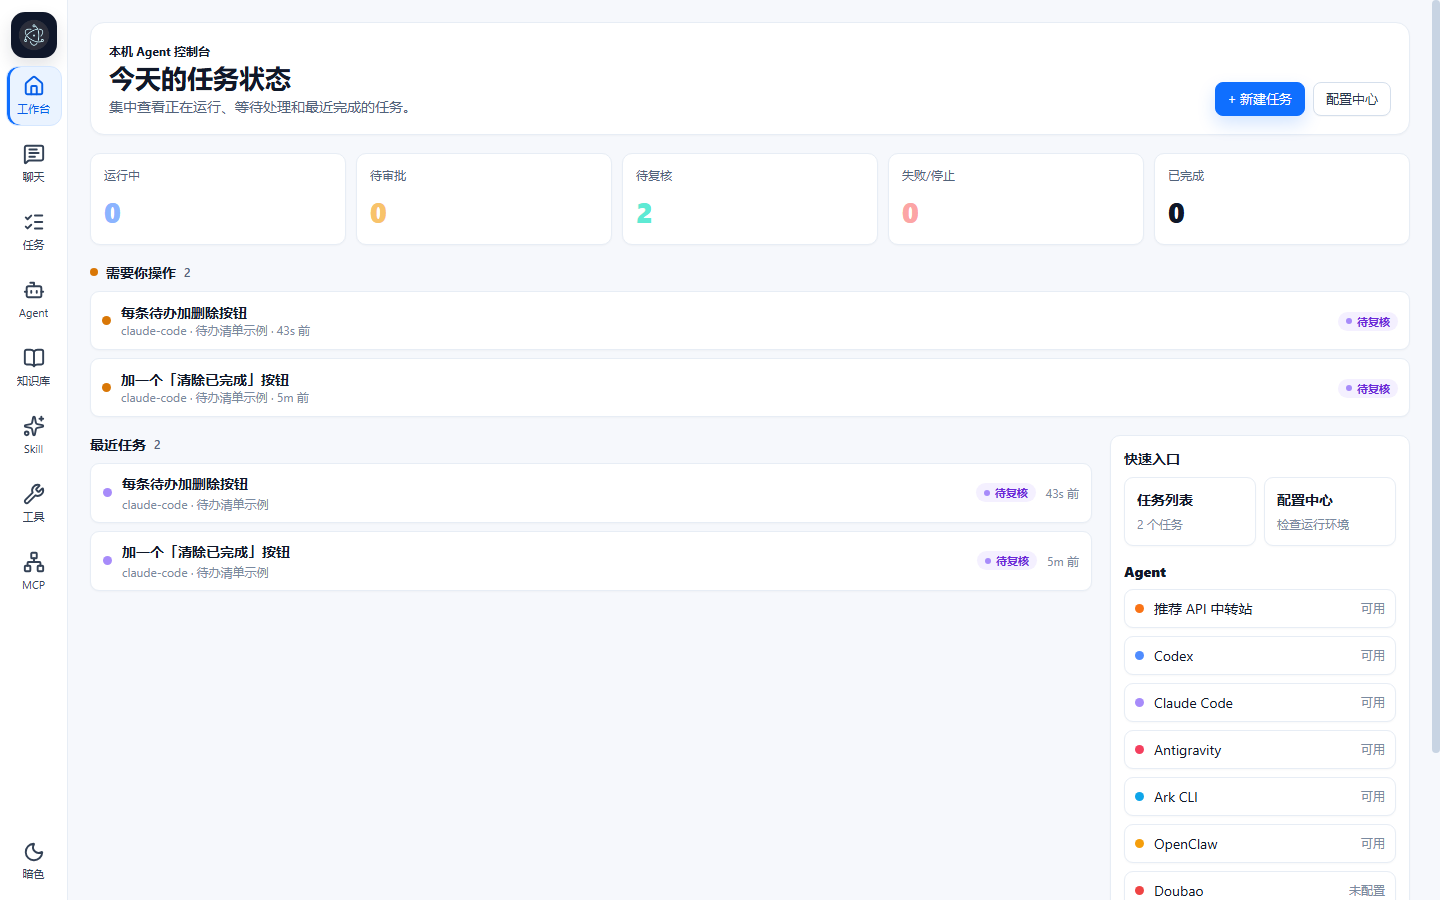
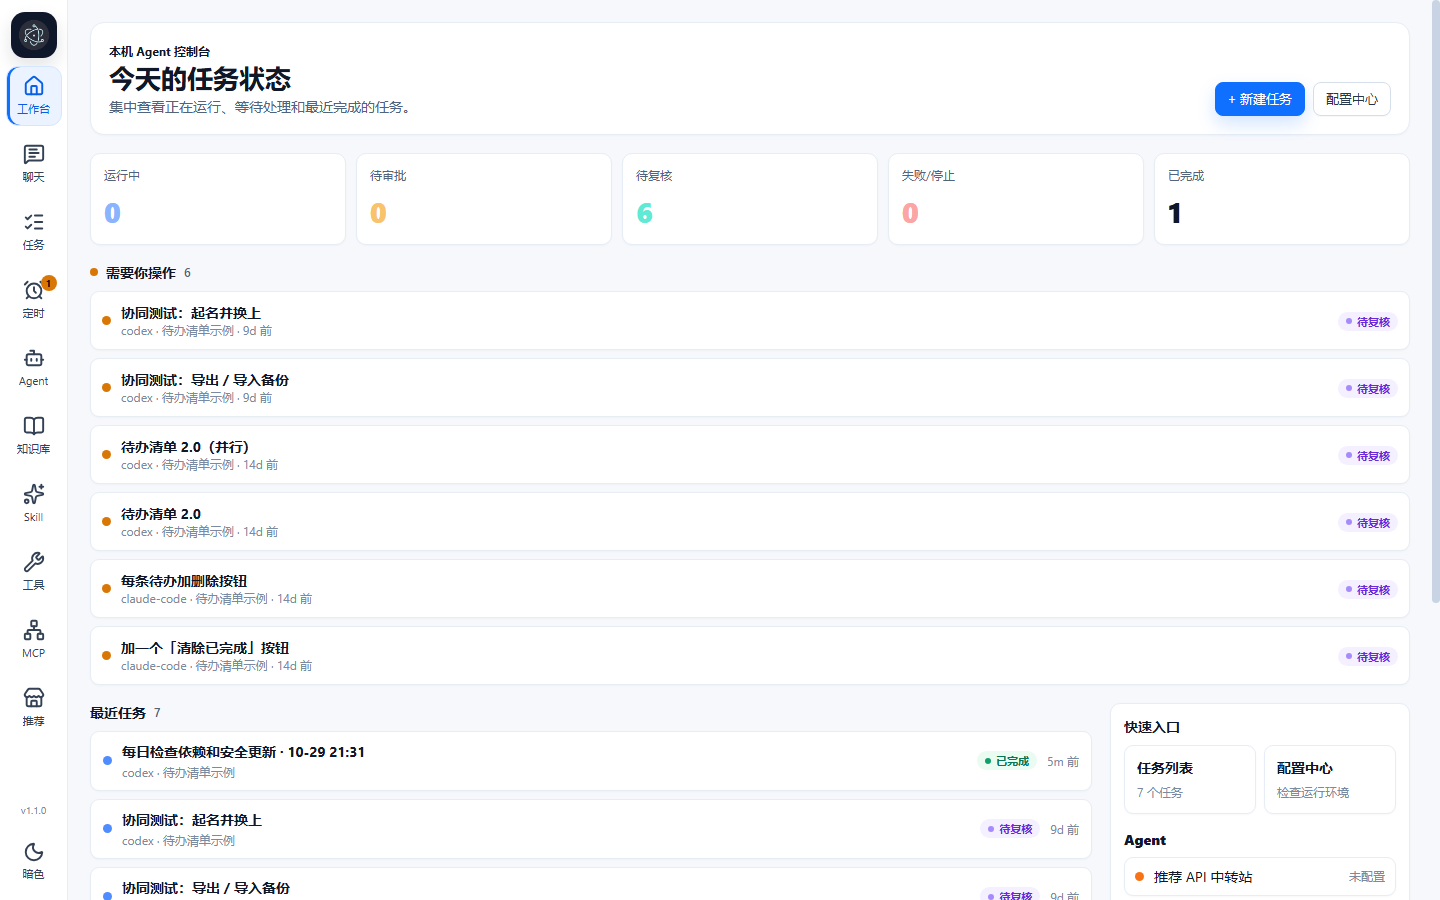
README: macOS / Linux support, new agents, multiple accounts, scheduled tasks, flow timeline and MCP management; new screenshots

diff --git a/README.en.md b/README.en.md
@@ -2,9 +2,9 @@
 
 English | [中文](README.md)
 
-Xgent Hub is a local control console for the coding agents installed on your computer: Codex, Claude Code, Antigravity, OpenClaw, Ark CLI, Ollama and any OpenAI-compatible API. You drive all of them from one web workspace (desktop app, browser or phone). The core is a task board with an approval queue and diff review, not a model dropdown with a chat box.
+Xgent Hub is a local control console for the coding agents installed on your computer: Codex, Claude Code, Antigravity, WorkBuddy (CodeBuddy), DeepSeek Harness, OpenClaw, Ark CLI, Ollama and any OpenAI-compatible API. You drive all of them from one web workspace (desktop app, browser or phone). The core is a task board with an approval queue and diff review, not a model dropdown with a chat box.
 
-> The user interface is currently in Simplified Chinese. Windows 10/11 is the only supported platform: the service scripts, installer and CLI launching are Windows-specific.
+> The user interface is currently in Simplified Chinese. It runs on Windows 10/11, macOS and Linux, and on a NAS (fnOS, Synology, ...) via Docker. The desktop app (Electron) and the installer are Windows-only for now; on macOS / Linux use the browser.
 
 ## Screenshots
 
@@ -20,9 +20,13 @@ Xgent Hub is a local control console for the coding agents installed on your com
 
 ![Diff review](.github/screenshots/diff.png)
 
-**Parallel agents**: one request split into subtasks handed to different agents (Codex, Claude Code, Antigravity…) that work at the same time; steps that depend on others wait for them, and everything comes back to the coordinator for a summary. Animated dashed edges are runs in progress.
+**Parallel agents**: one request split into subtasks handed to different agents (Codex, Claude Code, Antigravity…) that work at the same time; steps that depend on others wait for them, and everything comes back to the coordinator for a summary. The flow tab's "Structure" view draws it as a node graph you can drag and zoom; animated dashed edges are runs in progress.
 
 ![Parallel multi-agent flow](.github/screenshots/flow.png)
+
+**Timeline**: the other view of the flow tab, one column per subtask, showing top to bottom what each agent did and when: received the task, ran commands, changed files, waited for approval, finished. Tick "Show tokens" to see how many tokens each step used.
+
+![Flow timeline](.github/screenshots/flow-timeline.png)
 
 **Summary**: every subtask's reply is labelled with its subtask and agent; at the end the coordinator checks the whole workspace and hands you the result.
 
@@ -32,16 +36,25 @@ Xgent Hub is a local control console for the coding agents installed on your com
 
 ![Chat](.github/screenshots/chat.png)
 
+**Scheduled tasks**: agents do work on a schedule, e.g. check dependencies every weekday morning, write a weekly report on Fridays, or come back to a task every few hours to follow up. Unread results show as a number on the scheduled-tasks item in the left nav.
+
+![Scheduled tasks](.github/screenshots/automations.png)
+
+**MCP servers**: "Test connection" performs a real MCP handshake and lists the tools the server offers; MCP configs from elsewhere can be imported by pasting their JSON.
+
+![MCP servers](.github/screenshots/mcp.png)
+
 ## Features
 
 - **Tasks**: give an agent a job in a workspace folder and follow its messages, terminal output, file changes and diffs live. Stop it, continue the conversation, or hand the task over to another agent and model mid-way.
 - **Approval queue**: risky actions (installing packages, running commands, `git push`, touching secrets) wait for your approval. Claude Code's own per-tool permission prompts appear in the same queue. A pop-up, sound, tab title and badge tell you when something is waiting.
 - **Three permission levels per task**: ask for approval, approve for me (only high-risk actions ask), or full access.
 - **Undo**: every agent turn is snapshotted, so you can roll a workspace back to before a turn.
-- **AI task splitting with parallel execution**: describe a larger job and let a planner split it into subtasks assigned to different agents and models. Independent subtasks run at the same time, dependent ones wait, and the coordinator summarizes the results at the end; follow it all as a flow graph. `AGENTHUB_MAX_PARALLEL_SUBTASKS` in `.env` limits how many run at once (unlimited by default).
+- **AI task splitting with parallel execution**: when creating the task, tick which agents and roles it may use; the first request you send is split into subtasks, assigned and started automatically. Independent subtasks run at the same time, dependent ones wait, and the coordinator summarizes the results at the end. Not happy with one step? Redo just that step, and the steps that depend on it and the summary rerun automatically. The flow tab has a "Structure" node graph and a "Timeline" view, and can show tokens used per step. `AGENTHUB_MAX_PARALLEL_SUBTASKS` in `.env` limits how many run at once (unlimited by default).
+- **Scheduled tasks**: the scheduled-tasks item in the left nav works like Codex automations, in two kinds: create a new task on schedule (with the agent or role, workspace, model and permission you chose), or send a message into an existing task so it carries on. Schedules can be every few hours, daily, weekdays or chosen days of the week. A run is skipped while the previous one is still going; nothing runs while Xgent is closed, and one catch-up run happens when it starts again.
 - **Chat**: lightweight conversations with any agent, without a workspace.
 - **Roles**: wrap an agent and model into a fixed persona ("designer", "copywriter") with its own instructions and knowledge.
-- **Knowledge base, Skills, tools and MCP servers**: manage them once and attach them to workspaces, chats or roles. Skills can be installed straight from a GitHub link (for example Anthropic's `anthropics/skills`), with each skill's license shown.
+- **Knowledge base, Skills, tools and MCP servers**: manage them once and attach them to workspaces, chats or roles. Skills can be installed straight from a GitHub link (for example Anthropic's `anthropics/skills`), with each skill's license shown. MCP "Test connection" does a real handshake and lists the tools; JSON in the `{"mcpServers": …}` format can be pasted in to import; HTTP servers that need a token can be connected through a stdio bridge (Codex has no custom request headers), and HTTP MCP servers that need an OAuth login no longer leave a Codex task stuck waiting for a browser sign-in.
 - **Recommended catalog**: the "推荐" page lists curated skills, MCP servers and tools to install in one click, and flags new versions when the catalog changes. You can also subscribe to other catalogs (format: [catalog/README.md](catalog/README.md)).
 - **Agent diagnostics**: each agent's page checks whether its CLI is installed and logged in, lists models and usage, and gives step-by-step install instructions.
 - **Desktop app**: an Electron shell that starts the local service and logs in automatically.
@@ -52,13 +65,13 @@ Xgent Hub is a local control console for the coding agents installed on your com
 
 Agents are the AIs that do the actual work. Xgent doesn't write code itself; it hands tasks to the agents you already use and manages them in one place:
 
-- **Local CLI agents**: Codex, Claude Code, Antigravity, OpenClaw, Ark CLI. They read and write files in the workspace and run commands on your machine.
+- **Local CLI agents**: Codex, Claude Code, Antigravity, WorkBuddy (CodeBuddy), DeepSeek Harness, OpenClaw, Ark CLI. They read and write files in the workspace and run commands on your machine.
 - **API agents**: the recommended API relay, Doubao, Hermes, a local Ollama, or any OpenAI-compatible endpoint — good for chat and tasks that don't touch files.
 - **Custom agents**: plug in your own API or command-line tool.
 
-The agent list on the left shows which account each agent is signed in with; "remaining usage" shows the quota right there. Each agent's page has:
+The agent list on the left shows which account each agent is signed in with; "remaining usage" shows the quota right there. The "+" on the list opens the "Add agent" page: discover CLIs already installed on this machine, add a signed-in account for an agent, restore built-in agents you removed, or connect a custom API or command-line tool. Each agent's page has:
 
-- **Account**: which account and plan it uses. Codex and Claude Code can have several accounts, each with its own login, quota and sessions, and you pick one when creating a task just like picking an agent; a Claude Code account can also use an official API key or your own relay. The log-in button opens a login window (a Terminal window on macOS, a ready-to-run command on a NAS).
+- **Account**: which account and plan it uses. Codex, Claude Code, WorkBuddy, DeepSeek Harness and Ark CLI can have several accounts, each with its own login, quota and sessions, and you pick one when creating a task just like picking an agent; a Claude Code account can also use an official API key or your own relay. Accounts can have a note, shown in brackets in the sidebar (the email is shown when the note is empty). The log-in button opens a login window (a Terminal window on macOS, a ready-to-run command on a NAS).
 - **Diagnostics**: checks whether the CLI is installed and signed in, whether it is up to date, which models are available and how much quota is left, with copy-paste fix-up steps.
 - **Settings**: CLI path, sandbox mode, default model and so on, applied immediately without editing `.env` by hand.
 
@@ -162,6 +175,8 @@ Open `http://<NAS IP>:4180`. Everything lives in `xgent-data/` next to `docker-c
 | Codex | `codex exec --json`, runs inside Codex's own OS sandbox | `npm install -g @openai/codex`, then `codex login` |
 | Claude Code | `claude` headless mode (`--print --output-format stream-json`) | Claude Desktop (its bundled CLI is found automatically) or `irm https://claude.ai/install.ps1 \| iex` |
 | Antigravity | `agy` headless mode | `irm https://antigravity.google/cli/install.ps1 \| iex`, then run `agy` once to sign in |
+| WorkBuddy (CodeBuddy) | `codebuddy` headless mode (`-p --output-format stream-json`), using the quota that comes with the WorkBuddy account | `npm install -g @tencent-ai/codebuddy-code`, run `codebuddy` once and `/login` with the WorkBuddy account |
+| DeepSeek Harness | `dsh` headless mode, using the DeepSeek account signed in to the desktop app | Install the DeepSeek Harness desktop app and sign in with a DeepSeek account |
 | OpenClaw | `openclaw agent` through the local OpenClaw Gateway | `npm install -g openclaw`, gateway running |
 | Ark CLI | `arkcli +chat` (Volcengine Ark / Doubao) | `npm install -g @volcengine/ark-cli@latest`, then `arkcli auth login` |
 | Ollama | native Ollama API on `127.0.0.1:11434` | [Ollama](https://ollama.com/download) with at least one model pulled |
